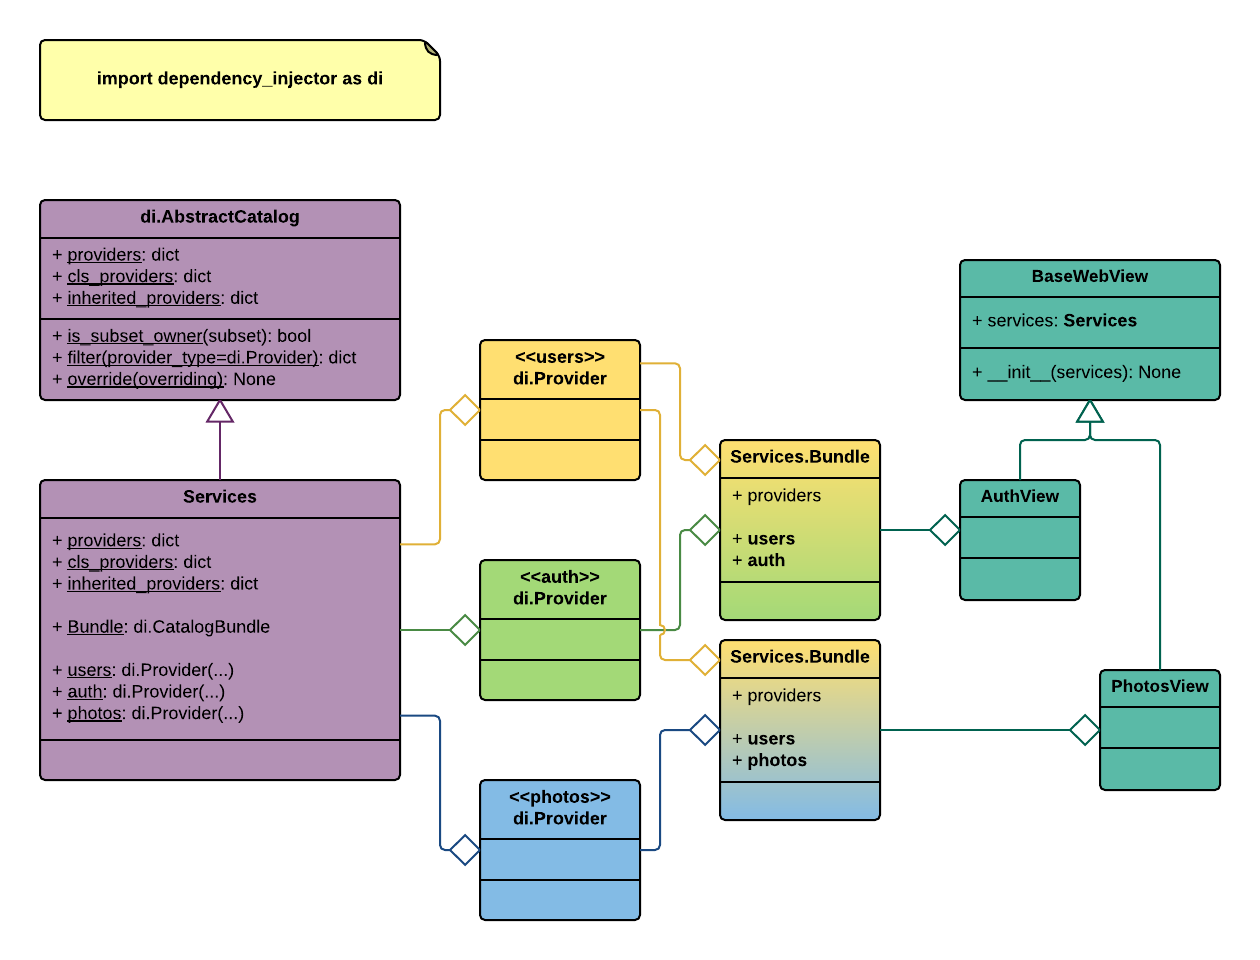
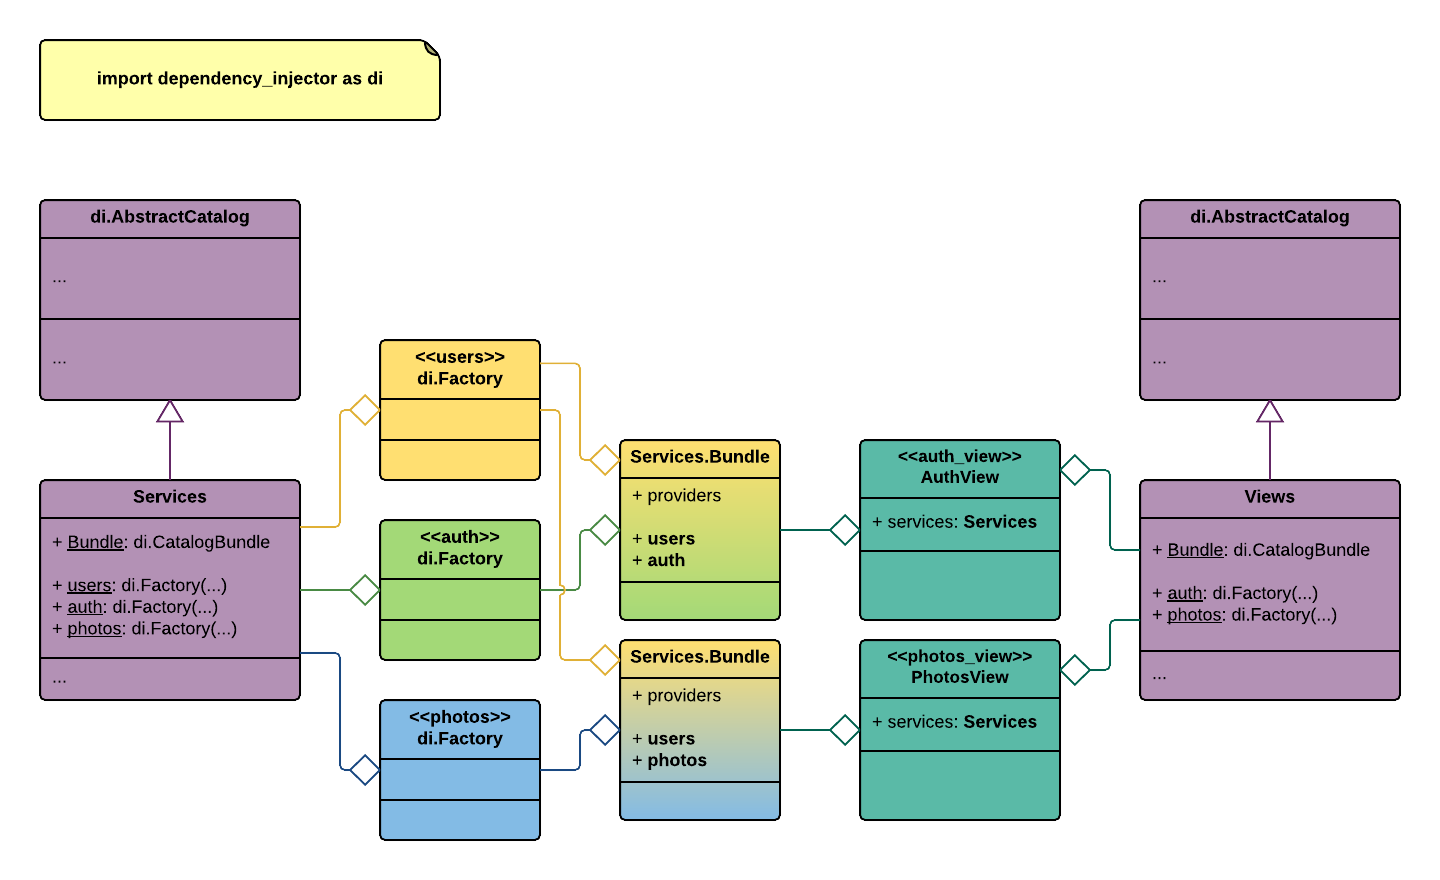
Update catalog bundle docs

diff --git a/docs/catalogs/bundles.rst b/docs/catalogs/bundles.rst
@@ -24,5 +24,17 @@ Example:
     :width: 100%
     :align: center
 
-.. literalinclude:: ../../examples/catalogs/bundles.py
+Listing of `services.py`:
+
+.. literalinclude:: ../../examples/catalogs/bundles/services.py
+   :language: python
+
+Listing of `views.py`:
+
+.. literalinclude:: ../../examples/catalogs/bundles/views.py
+   :language: python
+
+Listing of `catalogs.py`:
+
+.. literalinclude:: ../../examples/catalogs/bundles/catalogs.py
    :language: python
